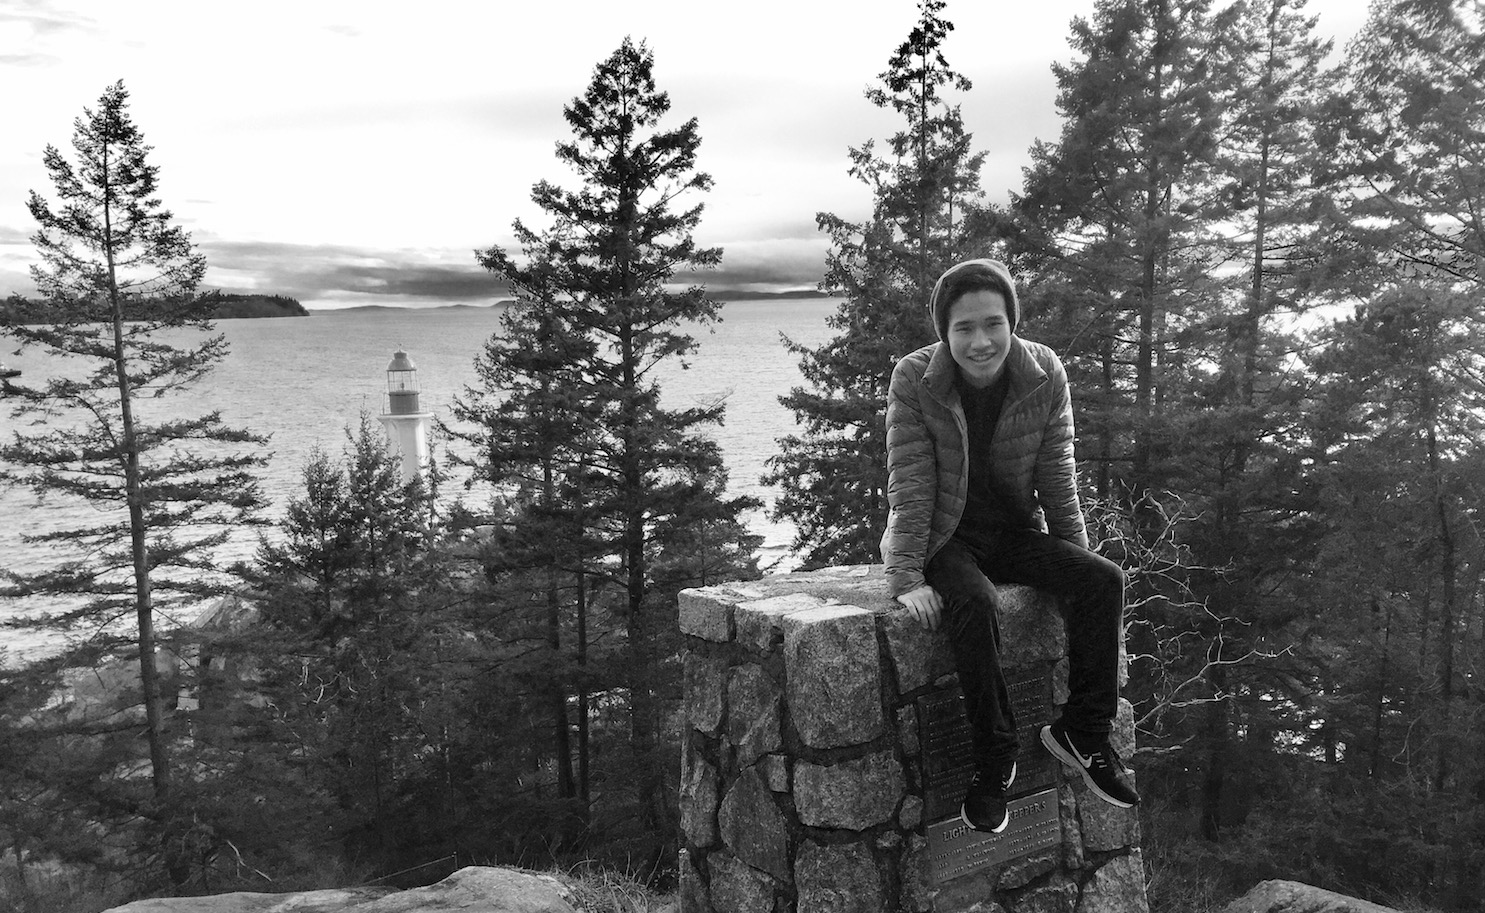
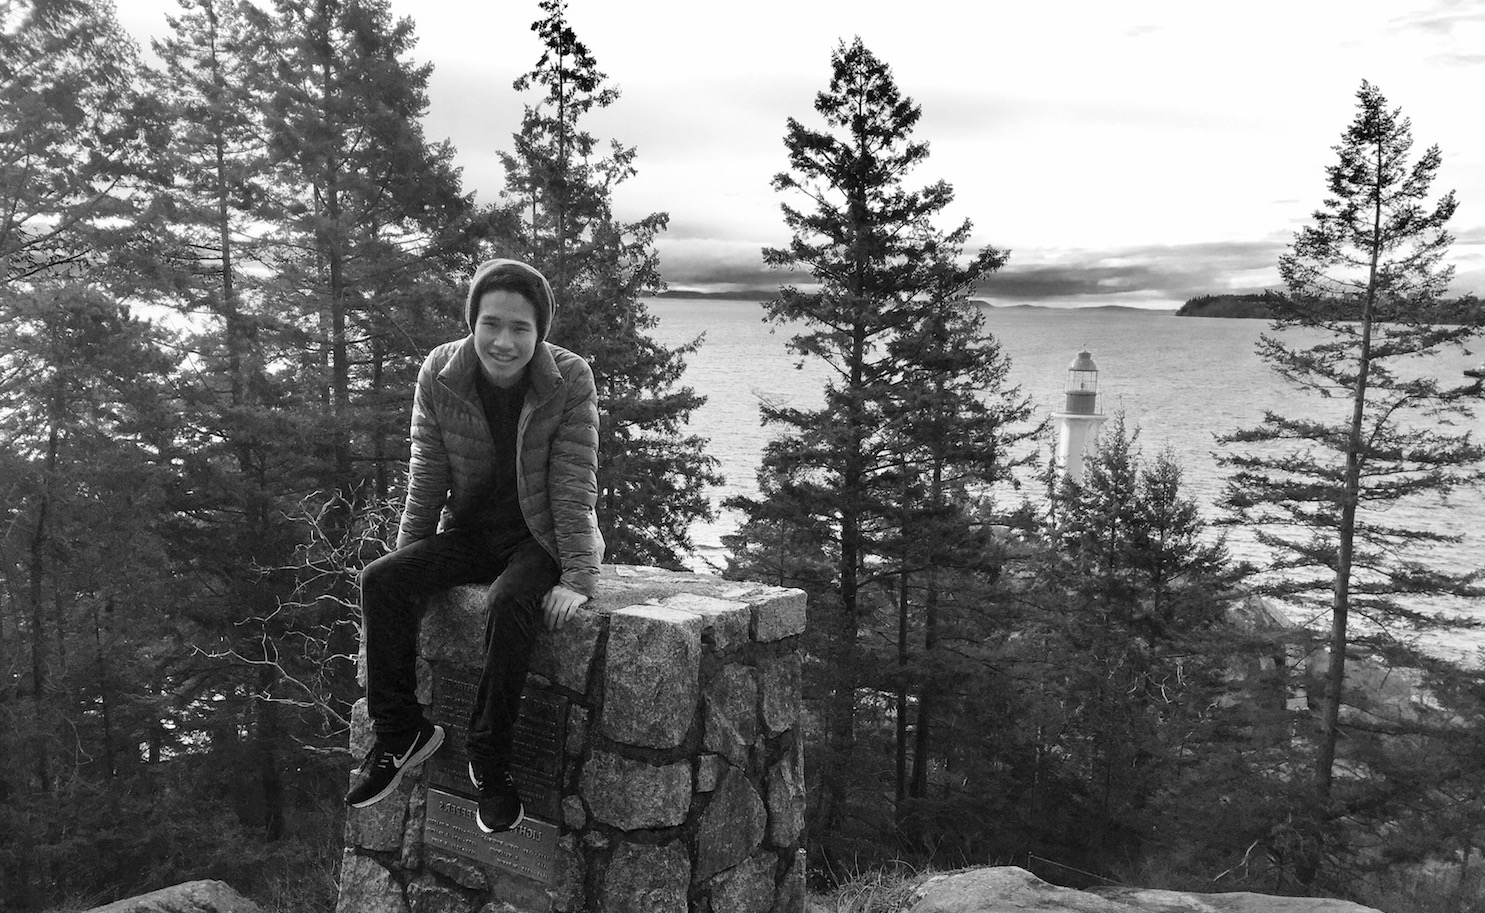
bg

diff --git a/jumbotron.css b/jumbotron.css
@@ -5,7 +5,7 @@ body {
 }
 
 .jumbotron{
-  background-image: url("lighthousebg2.jpg");
+  background-image: url("lighthousebg.jpg");
   width:100%;
   height:100%;
   height:calc(100% - 1px);
